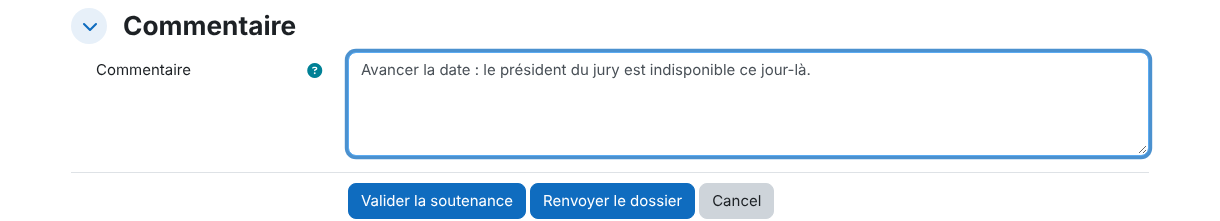
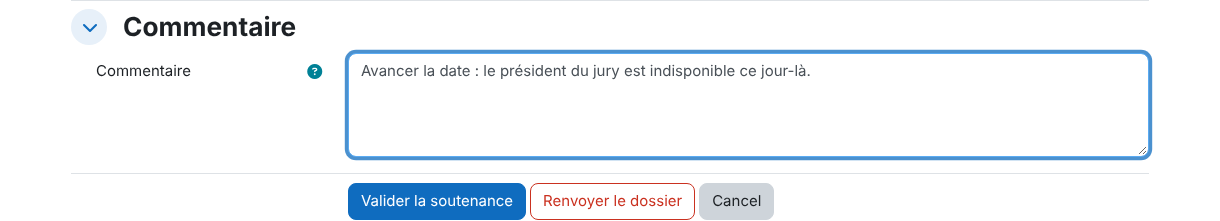
Ergonomie : résumé avant décision, renvoi distinct, en-tête unique, Mes signatures
D'après l'audit du 26 octobre 2026 (docs/qualite) :
- pages de validation : résumé du dossier au-dessus de la décision, dossier
  complet replié en dessous ;
- « Renvoyer le dossier » en bouton secondaire rouge ;
- accueil et tableau de bord sans nom ni description de l'activité en double ;
- « Mes signatures » groupé par dossier, aucune case cochée d'office.
Guide, CHANGES, captures refaites.

Claude-Session: https://claude.ai/code/session_01RmsV41KAocsBj2f5gDBxn6

diff --git a/docs/guides/captures/shots.js b/docs/guides/captures/shots.js
@@ -451,10 +451,9 @@ const steps = {
   async '65_agent_signature_enregistree'() {
     // Première signature de l'agent sur un seul document, en enregistrant sa signature.
     const p = await open(await as('agarnier'), these('mysignatures.php'));
+    // Aucun document n'est coché d'office : l'agent coche le premier.
     const docs = p.locator(`${form} input[type=checkbox][name^="sig"]:not([name="signatureconsent"])`);
-    for (let i = 1; i < await docs.count(); i++) {
-      await docs.nth(i).uncheck();
-    }
+    await docs.first().check();
     await draw(p);
     await check(p, '#id_savesignature');
     await check(p, '#id_signatureconsent');

diff --git a/docs/guides/guide-these.tex b/docs/guides/guide-these.tex
@@ -83,7 +83,10 @@ place avec vérification d'identité par la DEVE, conservée et imprimée. \\
 vérification d'identité avant l'ouverture de la page de signature ; document à
 signer présenté en tête ; scan sans saisie du nom du signataire ;
 avertissement des conflits de jury (même membre sur le même créneau) ; durée
-d'une soutenance dans les paramètres du circuit. \\
+d'une soutenance dans les paramètres du circuit ; pages de validation avec le
+résumé du dossier en tête et le dossier complet replié, bouton de renvoi
+distinct ; \og Mes signatures\fg{} groupé par dossier, sans case cochée
+d'office. \\
 \bottomrule
 \end{tabularx}
 \end{center}
@@ -542,7 +545,8 @@ vers le dossier.
 \begin{etapes}
   \item Ouvrez le dossier depuis \og À traiter\fg{}, puis cliquez sur
         \bouton{Examiner la proposition de sujet}.
-  \item Lisez le sujet (affiché sous le formulaire) et le PDF du dépôt de sujet.
+  \item Lisez le résumé du dossier en tête de la page, le PDF du dépôt de sujet
+        et, au besoin, le \bouton{Dossier complet} replié sous le formulaire.
   \item Pour valider : signez (votre signature enregistrée est cochée d'office
         si vous en avez une) et cliquez sur \bouton{Valider le sujet}.
   \item Pour renvoyer : écrivez le motif dans \bouton{Commentaire} et cliquez
@@ -600,8 +604,8 @@ favorable\fg{}.}
 \begin{etapes}
   \item Ouvrez le dossier (statut \statut{Corrections déposées}) et cliquez sur
         \bouton{Valider les corrections (directeur)}.
-  \item Comparez, sous le formulaire, les corrections demandées, les
-        corrections apportées et le manuscrit corrigé.
+  \item Comparez les corrections demandées, les corrections apportées et le
+        manuscrit corrigé (\bouton{Dossier complet}, replié sous le formulaire).
   \item Cliquez sur \bouton{Valider les corrections}, ou renvoyez à
         l'étudiant avec un motif.
 \end{etapes}
@@ -874,8 +878,9 @@ autres. Un agent retiré du réglage ne voit plus les documents en attente.
 \begin{etapes}
   \item Ouvrez le lien du courriel \og Documents à signer\fg{}, ou le bouton
         \bouton{Mes signatures} de la barre de navigation de l'activité.
-  \item Consultez chaque document avec \bouton{voir le PDF} ; décochez ceux
-        que vous ne voulez pas signer maintenant.
+  \item Les documents sont groupés par dossier (étudiant, titre, n\textsuperscript{o}
+        DEVE) et aucun n'est coché d'office : consultez chaque document avec
+        \bouton{voir le PDF}, puis cochez ceux que vous signez.
   \item La première fois, tracez votre signature et laissez cochée
         \bouton{Enregistrer cette signature pour mes prochaines signatures}.
         Ensuite, \bouton{Utiliser ma signature enregistrée} est cochée d'office :

diff --git a/mod/these/review.php b/mod/these/review.php
@@ -33,6 +33,7 @@ require(__DIR__ . '/../../config.php');
 require_once($CFG->dirroot . '/mod/these/locallib.php');
 
 use mod_these\output;
+use mod_these\output\parts;
 
 use mod_these\form\review_form;
 
@@ -192,15 +193,44 @@ if ($mform->is_cancelled()) {
 }
 
 $student = $DB->get_record('user', ['id' => $dossier->userid]);
+$director = $dossier->directorid ? $DB->get_record('user', ['id' => $dossier->directorid]) : null;
 
 $renderer = $PAGE->get_renderer('mod_these');
+// Résumé du dossier au-dessus de la décision ; le dossier complet suit, replié, pour ne pas
+// repousser la lecture de ce qui est validé à plusieurs écrans sous les boutons.
+$manuscript = these_can_view_filearea('manuscript', $rights)
+    ? $renderer->render(new output\file_links($context, 'manuscript', $dossier->id)) : '';
+$date = (int) ($dossier->defensedate ?: $dossier->proposeddate);
+$summary = new output\detail_section(get_string('reviewsummary', 'mod_these'), [
+    get_string('signinfostudent', 'mod_these') => [parts::text($student ? fullname($student) : '-')],
+    get_string('signinfotitle', 'mod_these') => [parts::text(format_string(
+        these_subject_field($dossier, 'title', $context),
+        true,
+        ['context' => $context, 'escape' => false]
+    ))],
+    get_string('status') => [parts::text(these_status_label($dossier->status))],
+    get_string('slotdirector', 'mod_these') => $director ? [parts::text(fullname($director))] : null,
+    get_string('signinfonumber', 'mod_these') => trim((string) $dossier->devenumber) !== ''
+        ? [parts::text($dossier->devenumber)] : null,
+    get_string('signinfodefense', 'mod_these') => $date ? [parts::text(
+        userdate($date, get_string('strftimedaydatetime', 'langconfig'))
+        . (trim((string) $dossier->defenselocation) !== '' ? ' — ' . $dossier->defenselocation : '')
+    )] : null,
+    get_string('manuscript', 'mod_these') => $manuscript !== '' ? [parts::html($manuscript)] : null,
+]);
+
 echo $OUTPUT->header();
 echo $OUTPUT->heading(get_string('review' . $step['key'], 'mod_these'));
 echo $renderer->render(new output\link($dossierurl, get_string('back')));
-echo $OUTPUT->box(get_string('dossierof', 'mod_these', $student ? fullname($student) : '-'), 'generalbox mb-3');
 if ($rights->viewall) {
     echo these_render_jury_conflicts($dossier);
 }
+echo $renderer->render($summary);
 $mform->display();
-echo these_render_dossier($these, $cm, $context, $dossier, $rights, false);
+echo html_writer::tag(
+    'details',
+    html_writer::tag('summary', get_string('reviewfulldossier', 'mod_these'), ['class' => 'h4 my-3'])
+        . these_render_dossier($these, $cm, $context, $dossier, $rights, false),
+    ['class' => 'mt-4 these-review-dossier']
+);
 echo $OUTPUT->footer();

diff --git a/mod/these/classes/form/mysignatures_form.php b/mod/these/classes/form/mysignatures_form.php
@@ -23,10 +23,12 @@ require_once($CFG->dirroot . '/mod/these/locallib.php');
 
 /**
  * Documents qui attendent la signature de l'utilisateur connecté (agent DEVE, membre du jury ou
- * autre signataire invité ayant un compte), signés en une fois : une case par document, cochée
- * d'office, puis le bloc de signature (signature enregistrée reprise d'office).
+ * autre signataire invité ayant un compte), signés en une fois : documents groupés par dossier, une
+ * case par document, décochée (le signataire coche ce qu'il a consulté), puis le bloc de signature
+ * (signature enregistrée reprise d'office).
  *
- * customdata : documents (id de signature => libellé HTML), signername.
+ * customdata : documents (id de signature => libellé HTML), groups (liste de {heading, ids}),
+ * signername.
  *
  * @package   mod_these
  * @copyright 2026 Sébastien Lefebvre
@@ -39,18 +41,21 @@ class mysignatures_form extends \moodleform {
     public function definition() {
         $mform = $this->_form;
 
-        $boxes = [];
-        foreach ($this->_customdata['documents'] as $signatureid => $label) {
-            $boxes[] = $mform->createElement('advcheckbox', 'sig' . $signatureid, '', $label);
-            $mform->setDefault('sig' . $signatureid, 1);
+        $mform->addElement('static', 'documentsgroup', get_string('documentstosign', 'mod_these'), '');
+        foreach ($this->_customdata['groups'] ?? [] as $i => $group) {
+            $boxes = [];
+            foreach ($group['ids'] as $signatureid) {
+                $label = $this->_customdata['documents'][$signatureid];
+                $boxes[] = $mform->createElement('advcheckbox', 'sig' . $signatureid, '', $label);
+            }
+            $mform->addGroup(
+                $boxes,
+                'dossiergroup' . $i,
+                \html_writer::tag('strong', s($group['heading'])),
+                \html_writer::empty_tag('br'),
+                false
+            );
         }
-        $mform->addGroup(
-            $boxes,
-            'documentsgroup',
-            get_string('documentstosign', 'mod_these'),
-            \html_writer::empty_tag('br'),
-            false
-        );
         these_add_signature_fields($mform, $this->_customdata['signername'], get_string('signmyintro', 'mod_these'));
         $this->add_action_buttons(false, get_string('signdocuments', 'mod_these'));
     }

diff --git a/mod/these/mysignatures.php b/mod/these/mysignatures.php
@@ -72,12 +72,29 @@ if ($preview && isset($pending[$preview])) {
 }
 
 $renderer = $PAGE->get_renderer('mod_these');
+// Documents groupés par dossier (étudiant, titre, n° DEVE), aucun coché d'office : chacun se coche
+// après avoir consulté son PDF.
 $documents = [];
+$groups = [];
 foreach ($pending as $signature) {
-    $student = $DB->get_record('user', ['id' => $signature->dossier->userid]);
+    $dossier = $signature->dossier;
+    if (!isset($groups[$dossier->id])) {
+        $student = $DB->get_record('user', ['id' => $dossier->userid]);
+        $context = context_module::instance($signature->cm->id);
+        $groups[$dossier->id] = ['heading' => get_string('mysignaturesdossier', 'mod_these', (object) [
+            'student' => $student ? fullname($student) : '-',
+            'title' => format_string(
+                these_subject_field($dossier, 'title', $context),
+                true,
+                ['context' => $context, 'escape' => false]
+            ),
+            'number' => trim((string) $dossier->devenumber) !== '' ? ' — ' . get_string('signinfonumber', 'mod_these')
+                . ' ' . $dossier->devenumber : '',
+        ]), 'ids' => []];
+    }
+    $groups[$dossier->id]['ids'][] = $signature->id;
     $documents[$signature->id] = $renderer->render(new output\fragment([
-        parts::text(($student ? fullname($student) : '-') . ' — ' . these_document_label($signature->doctype)
-            . ' (' . these_slot_label($signature->slot) . ') — '),
+        parts::text(these_document_label($signature->doctype) . ' (' . these_slot_label($signature->slot) . ') — '),
         parts::link(
             new moodle_url($PAGE->url, ['preview' => $signature->id]),
             get_string('signpreview', 'mod_these'),
@@ -86,7 +103,11 @@ foreach ($pending as $signature) {
         ),
     ]));
 }
-$mform = new \mod_these\form\mysignatures_form($PAGE->url, ['documents' => $documents, 'signername' => fullname($USER)]);
+$mform = new \mod_these\form\mysignatures_form($PAGE->url, [
+    'documents' => $documents,
+    'groups' => array_values($groups),
+    'signername' => fullname($USER),
+]);
 
 if ($documents && ($data = $mform->get_data())) {
     $png = these_signature_from_form($data);

diff --git a/mod/these/classes/form/review_form.php b/mod/these/classes/form/review_form.php
@@ -158,7 +158,16 @@ class review_form extends \moodleform {
 
         $buttons = [];
         $buttons[] = $mform->createElement('submit', 'validatestep', get_string('validate' . $stepkey, 'mod_these'));
-        $buttons[] = $mform->createElement('submit', 'returndossier', get_string('returndossier', 'mod_these'));
+        // Renvoi : bouton secondaire, d'alerte, pour ne pas le confondre avec la validation ; un
+        // commentaire est obligatoire (voir validation()).
+        $buttons[] = $mform->createElement(
+            'submit',
+            'returndossier',
+            get_string('returndossier', 'mod_these'),
+            null,
+            false,
+            ['customclassoverride' => 'btn-outline-danger']
+        );
         $buttons[] = $mform->createElement('cancel');
         $mform->addGroup($buttons, 'buttonar', '', [' '], false);
         $mform->closeHeaderBefore('buttonar');

diff --git a/mod/these/lang/fr/these.php b/mod/these/lang/fr/these.php
@@ -903,6 +903,9 @@ $string['signidentity_desc'] = "Vérifiez l'identité de la personne présente (
 $string['signidentityverified'] = "Je certifie avoir vérifié l'identité du signataire (pièce d'identité)";
 $string['signidentityopen'] = 'Ouvrir la page de signature';
 $string['signinfoslot'] = 'Signature en qualité de';
+$string['reviewsummary'] = 'Dossier examiné';
+$string['reviewfulldossier'] = 'Dossier complet (cliquer pour déplier)';
+$string['mysignaturesdossier'] = '{$a->student} — « {$a->title} »{$a->number}';
 $string['signinfostudent'] = 'Étudiant';
 $string['signinfotitle'] = 'Titre de la thèse';
 $string['signinfonumber'] = 'N° DEVE';

diff --git a/mod/these/lang/en/these.php b/mod/these/lang/en/these.php
@@ -897,6 +897,9 @@ $string['signidentity_desc'] = 'Check the identity of the person present (identi
 $string['signidentityverified'] = 'I certify that I have checked the identity of the signatory (identity document)';
 $string['signidentityopen'] = 'Open the signing page';
 $string['signinfoslot'] = 'Signing as';
+$string['reviewsummary'] = 'File under review';
+$string['reviewfulldossier'] = 'Complete file (click to expand)';
+$string['mysignaturesdossier'] = '{$a->student} — "{$a->title}"{$a->number}';
 $string['signinfostudent'] = 'Student';
 $string['signinfotitle'] = 'Thesis title';
 $string['signinfonumber'] = 'Registrar number';

diff --git a/mod/these/view.php b/mod/these/view.php
@@ -58,12 +58,8 @@ $PAGE->set_title(format_string($these->name));
 $PAGE->set_heading(format_string($course->fullname));
 $PAGE->set_context($context);
 
+// Nom et description de l'activité : affichés par l'en-tête d'activité de Moodle (4.0 et plus).
 echo $OUTPUT->header();
-echo $OUTPUT->heading(format_string($these->name));
-
-if ($these->intro) {
-    echo $OUTPUT->box(format_module_intro('these', $these, $cm->id), 'generalbox mod_introbox', 'theseintro');
-}
 
 echo $OUTPUT->heading(get_string('mydossier', 'mod_these'), 3);
 if (!$dossier) {

diff --git a/mod/these/dashboard.php b/mod/these/dashboard.php
@@ -61,7 +61,7 @@ $PAGE->set_context($context);
 
 $renderer = $PAGE->get_renderer('mod_these');
 echo $OUTPUT->header();
-echo $OUTPUT->heading(format_string($these->name));
+echo $OUTPUT->heading(get_string('dashboard', 'mod_these'));
 echo these_render_navlinks($cm, $context);
 
 // File « À traiter » : les étapes qui attendent l'utilisateur, tous rôles confondus.

diff --git a/mod/these/version.php b/mod/these/version.php
@@ -25,7 +25,7 @@
 defined('MOODLE_INTERNAL') || die();
 
 $plugin->component = 'mod_these';
-$plugin->version   = 2026102604;
+$plugin->version   = 2026102605;
 $plugin->requires  = 2022041900; // Moodle 4.0+.
 $plugin->maturity  = MATURITY_ALPHA;
 $plugin->release   = '0.17.0';

diff --git a/CHANGES.md b/CHANGES.md
@@ -13,7 +13,7 @@ de version recalés sur la date. Les numéros entre parenthèses des sections de
 développement ne correspondent à aucune version installable ; 0.11.2 n'a jamais
 été étiquetée.
 
-## mod_these 0.17.0 (2026102604) — signature sur place de l'étudiant et du directeur, vérification d'identité préalable
+## mod_these 0.17.0 (2026102605) — signature sur place de l'étudiant et du directeur, vérification d'identité préalable
 
 - Signature sur place ouverte à l'étudiant et au directeur (suivi des
   signatures, « Signatures à recueillir ») pour les documents dont la signature
@@ -39,6 +39,17 @@ développement ne correspondent à aucune version installable ; 0.11.2 n'a jamai
   dossiers), avertissement en tête du dossier, de sa modification et de sa
   validation. Un même membre est reconnu à l'enseignant de l'annuaire, à son
   adresse ou, à défaut, à son nom.
+- Ergonomie (audit du 26 octobre 2026, `docs/qualite/`) :
+  - pages de validation (directeur, DEVE, bibliothèque) : résumé du dossier
+    (étudiant, titre, statut, directeur, n° DEVE, soutenance, manuscrit)
+    au-dessus de la décision, dossier complet replié en dessous ; pages deux
+    fois moins longues ;
+  - « Renvoyer le dossier » devient un bouton secondaire, en rouge, distinct
+    de « Valider » (commentaire toujours obligatoire) ;
+  - accueil et tableau de bord : le nom et la description de l'activité ne
+    sont plus affichés deux fois (l'en-tête d'activité de Moodle les montre) ;
+  - « Mes signatures » : documents groupés par dossier (étudiant, titre,
+    n° DEVE), aucune case cochée d'office.
 - Sans changement de schéma.
 
 ## mod_these 0.16.0 (2026102603) — signataires des scans, délégation, vérification d'identité
